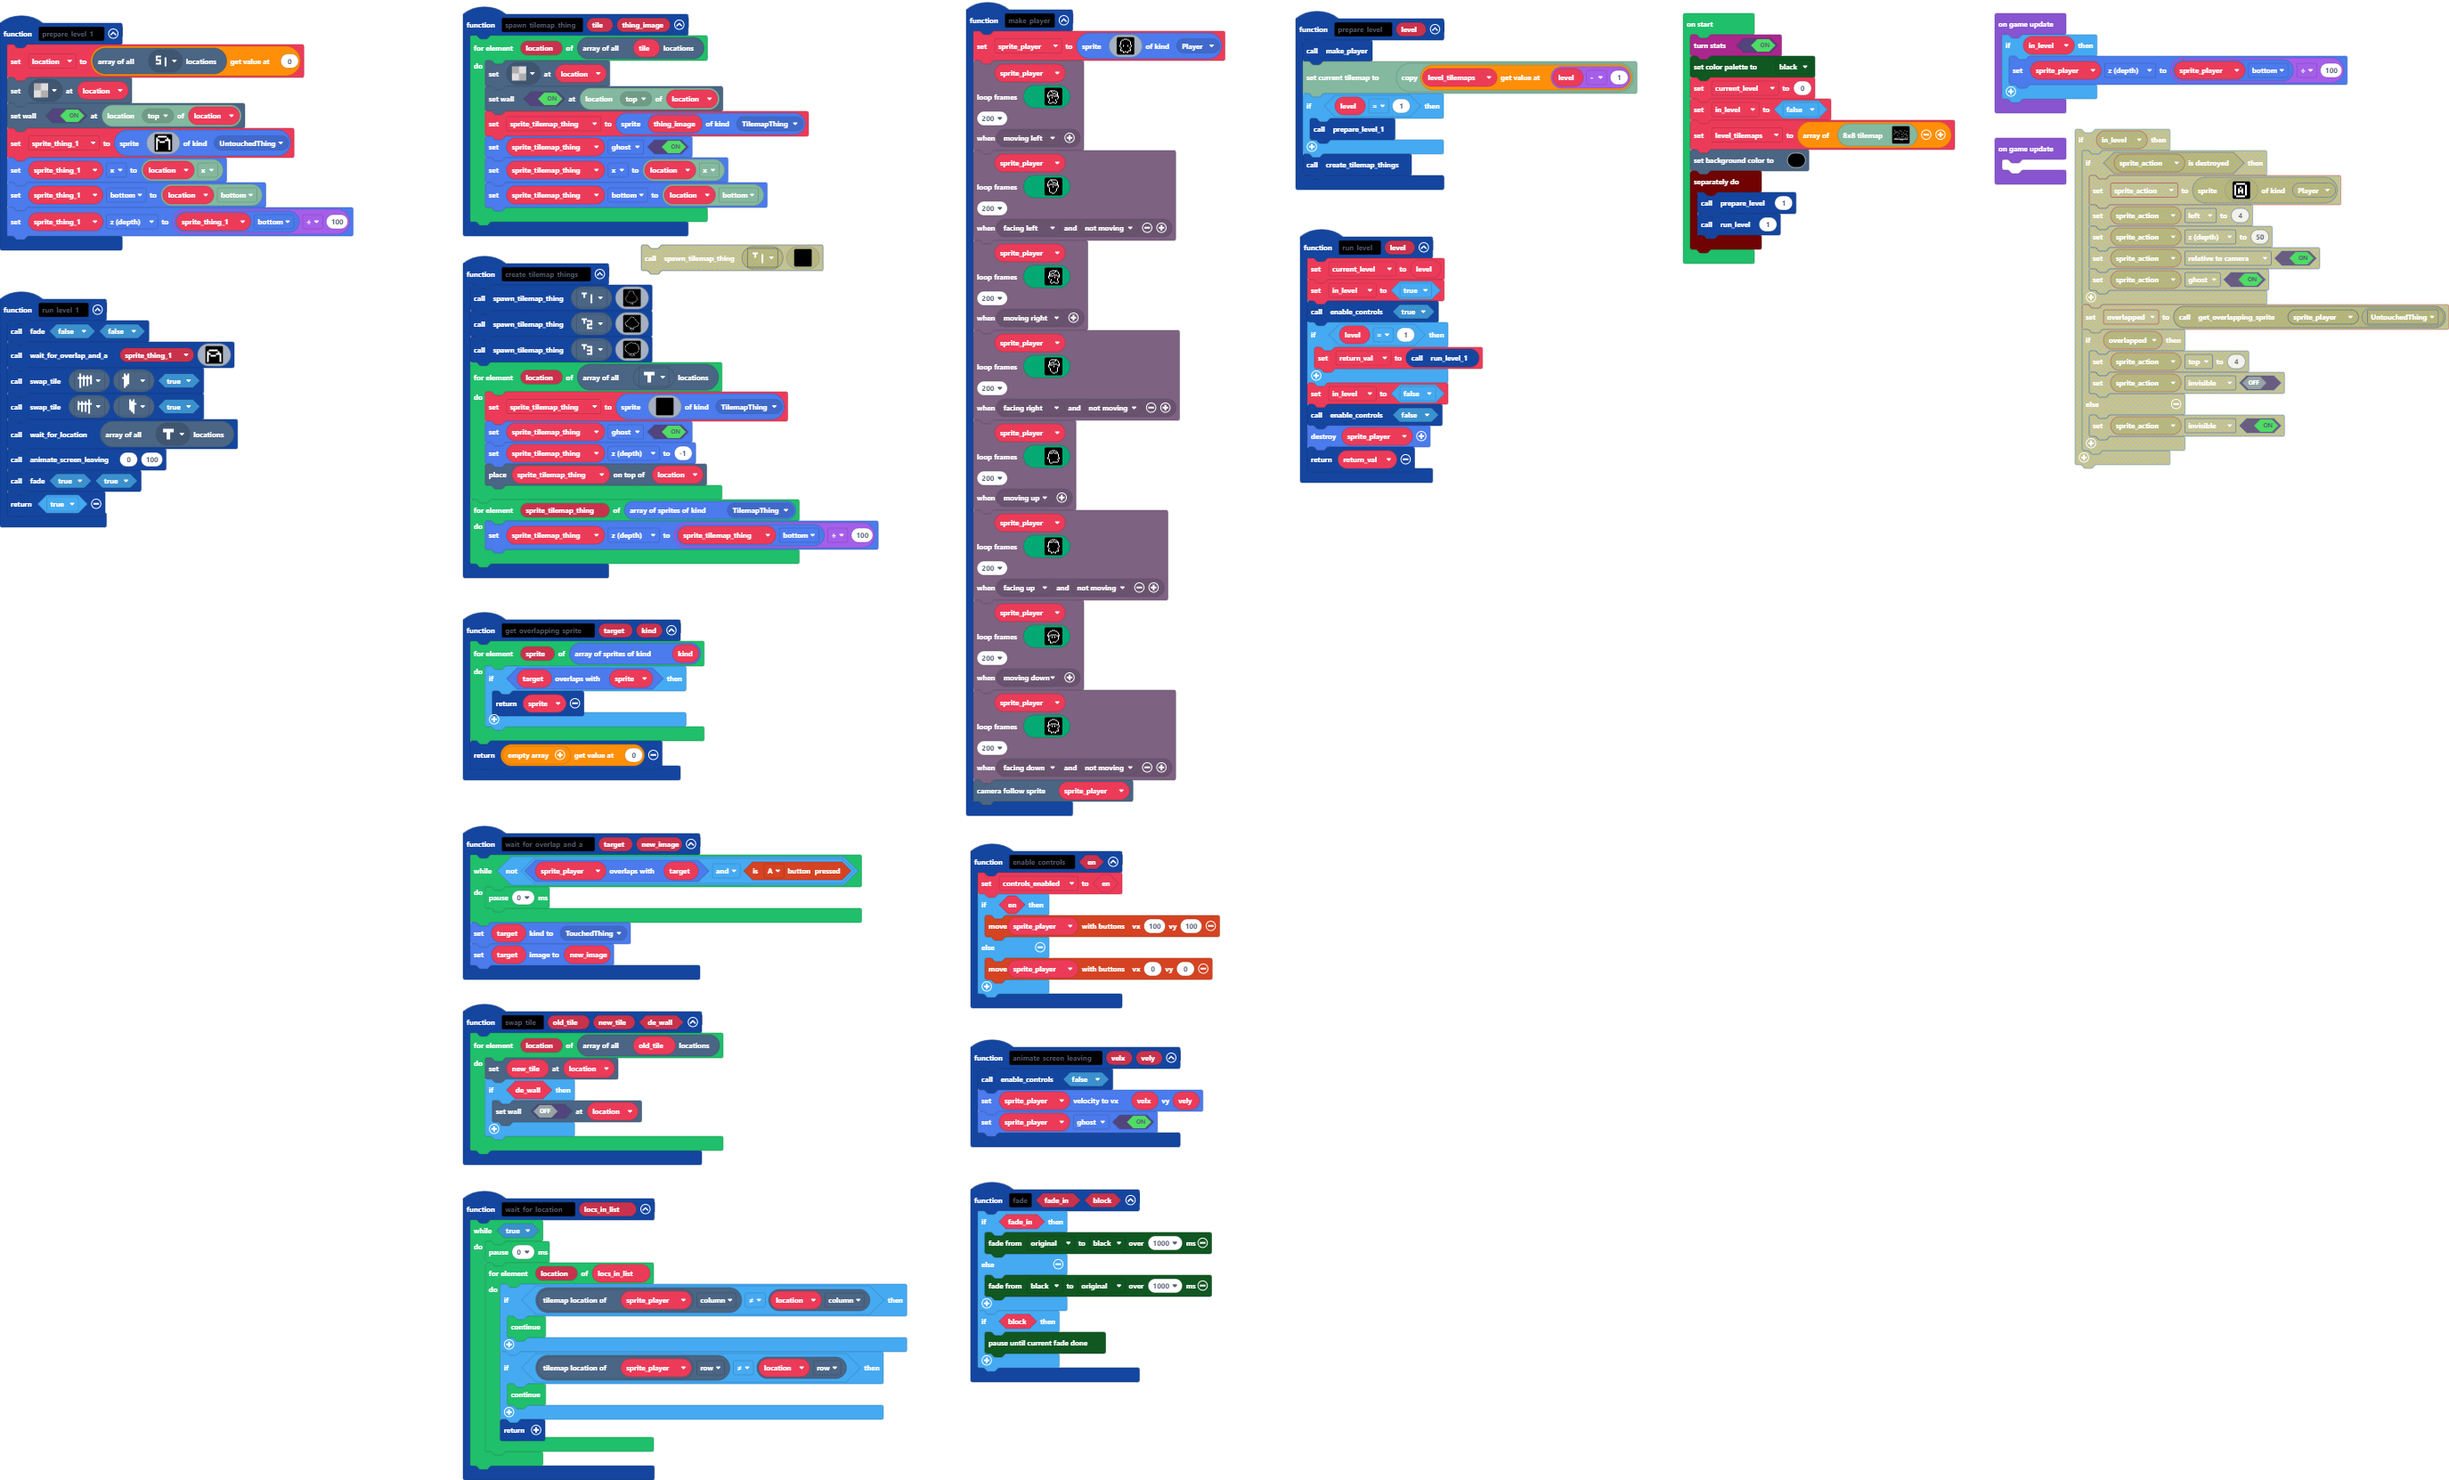
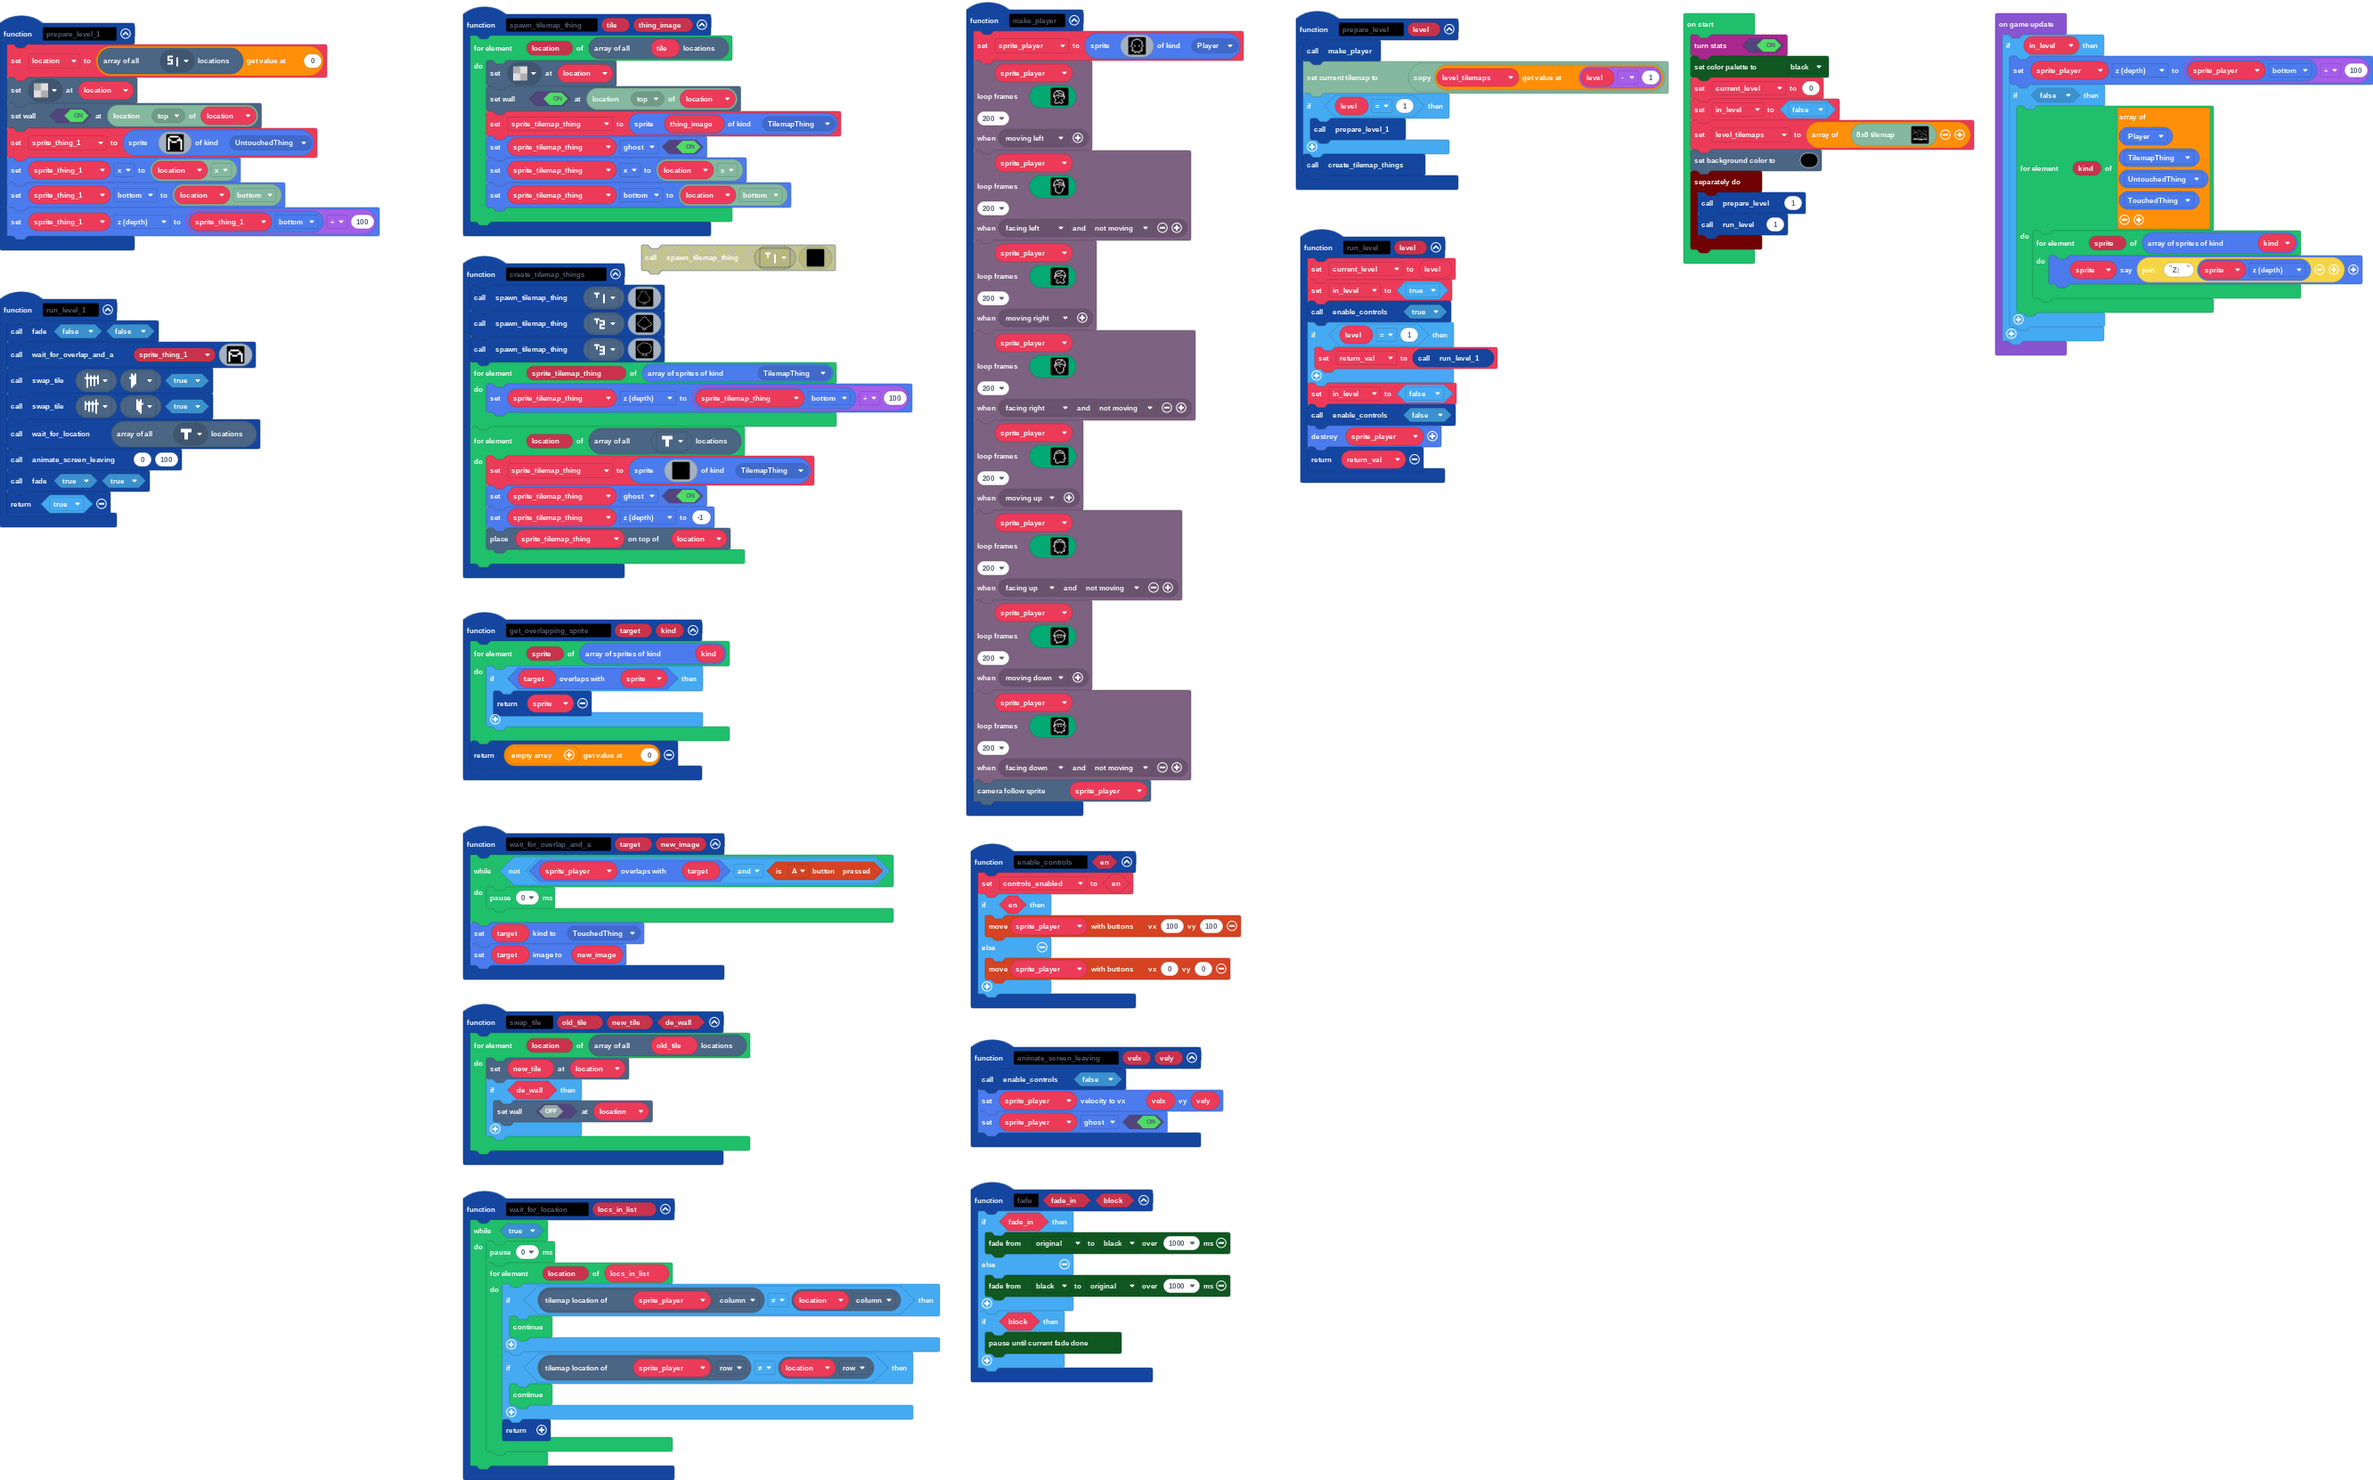
Fix target tiles not having -1 z index

diff --git a/main.ts b/main.ts
@@ -168,14 +168,14 @@ function create_tilemap_things () {
     spawn_tilemap_thing(assets.tile`tree_1`, assets.image`tree_1`)
     spawn_tilemap_thing(assets.tile`tile_tree_2`, assets.image`tree_2`)
     spawn_tilemap_thing(assets.tile`tile_tree_3`, assets.image`tree_3`)
+    for (let sprite_tilemap_thing of sprites.allOfKind(SpriteKind.TilemapThing)) {
+        sprite_tilemap_thing.z = sprite_tilemap_thing.bottom / 100
+    }
     for (let location of tiles.getTilesByType(assets.tile`tile_target`)) {
         sprite_tilemap_thing = sprites.create(assets.image`ground`, SpriteKind.TilemapThing)
         sprite_tilemap_thing.setFlag(SpriteFlag.Ghost, true)
         sprite_tilemap_thing.z = -1
         tiles.placeOnTile(sprite_tilemap_thing, location)
-    }
-    for (let sprite_tilemap_thing of sprites.allOfKind(SpriteKind.TilemapThing)) {
-        sprite_tilemap_thing.z = sprite_tilemap_thing.bottom / 100
     }
 }
 let controls_enabled = false
@@ -202,8 +202,17 @@ timer.background(function () {
 game.onUpdate(function () {
     if (in_level) {
         sprite_player.z = sprite_player.bottom / 100
+        if (false) {
+            for (let kind of [
+            SpriteKind.Player,
+            SpriteKind.TilemapThing,
+            SpriteKind.UntouchedThing,
+            SpriteKind.TouchedThing
+            ]) {
+                for (let sprite of sprites.allOfKind(kind)) {
+                    sprite.sayText("Z: " + sprite.z)
+                }
+            }
+        }
     }
-})
-game.onUpdate(function () {
-	
 })
